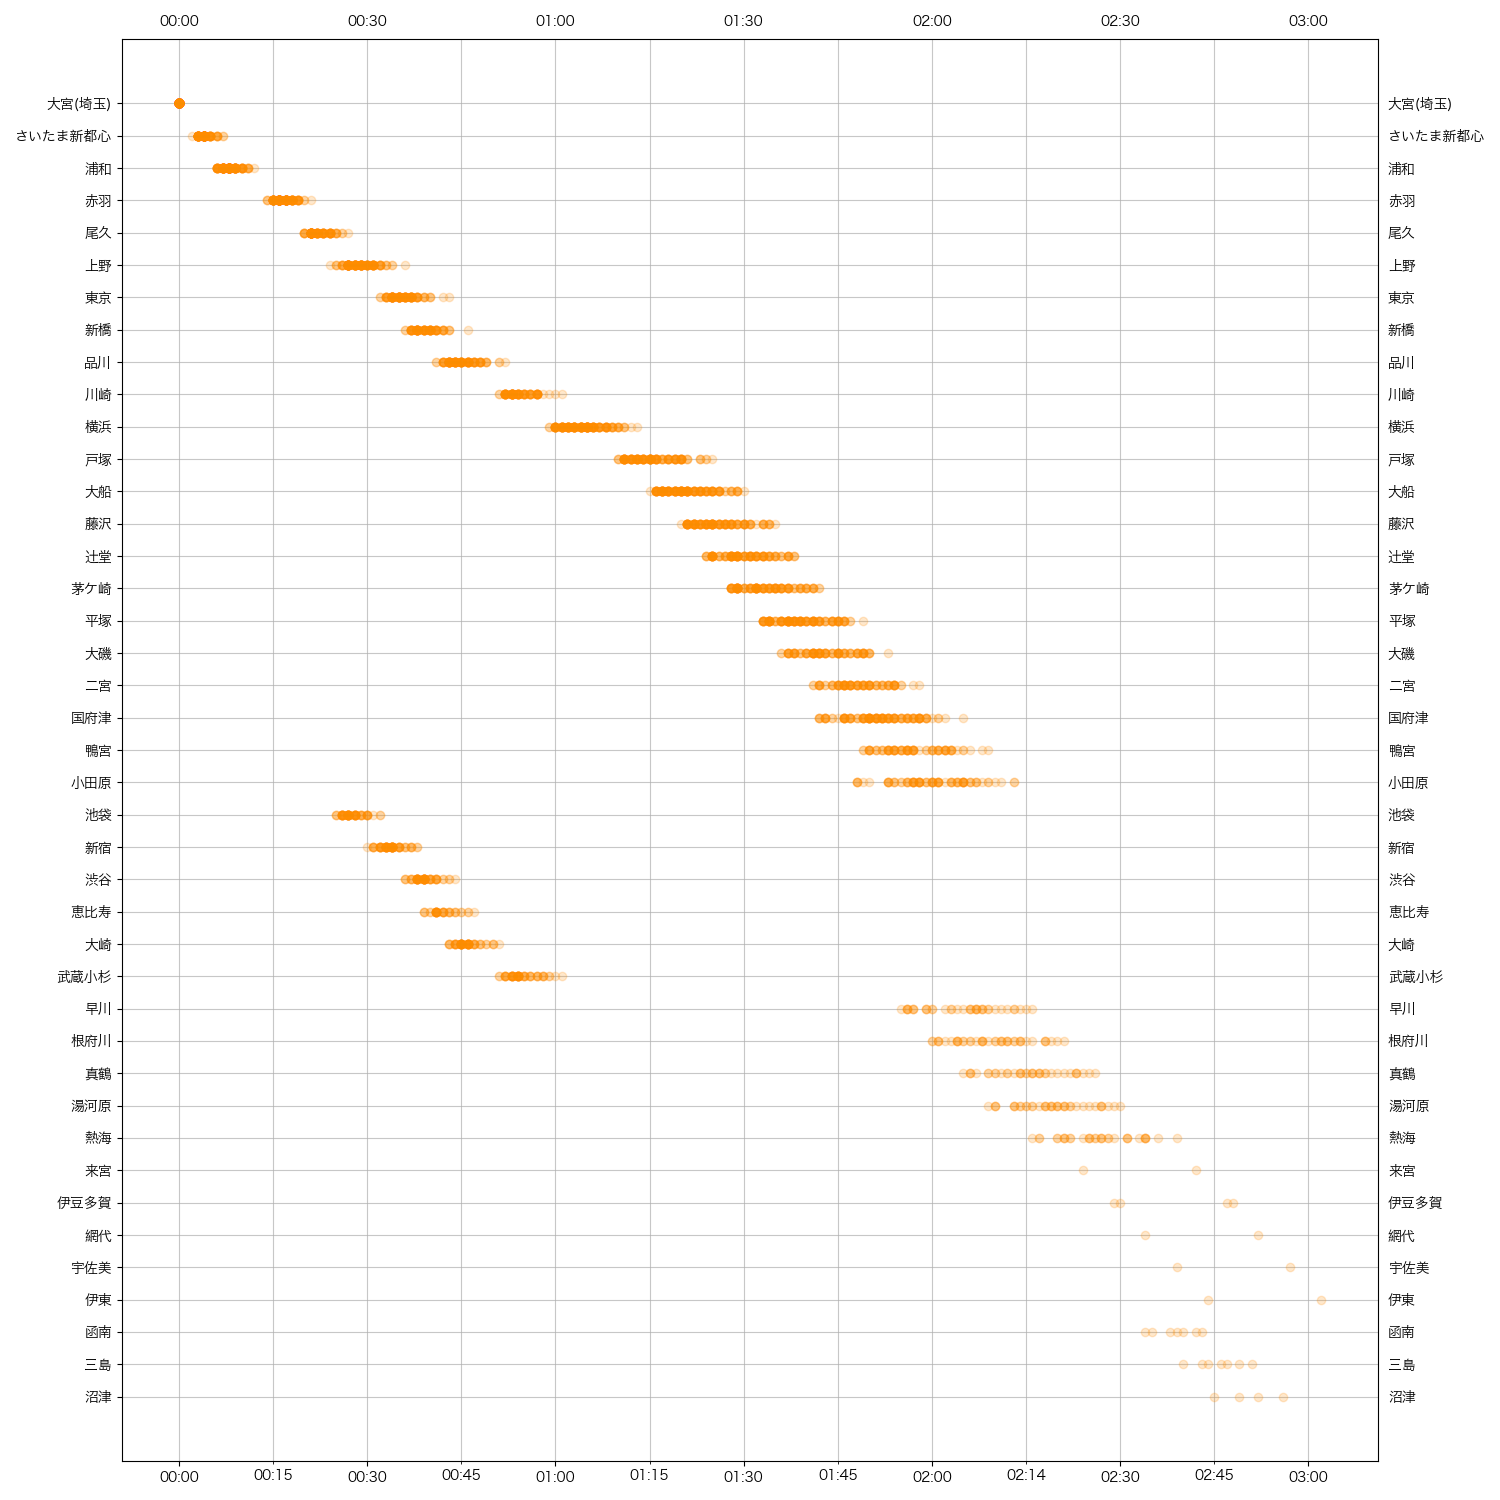
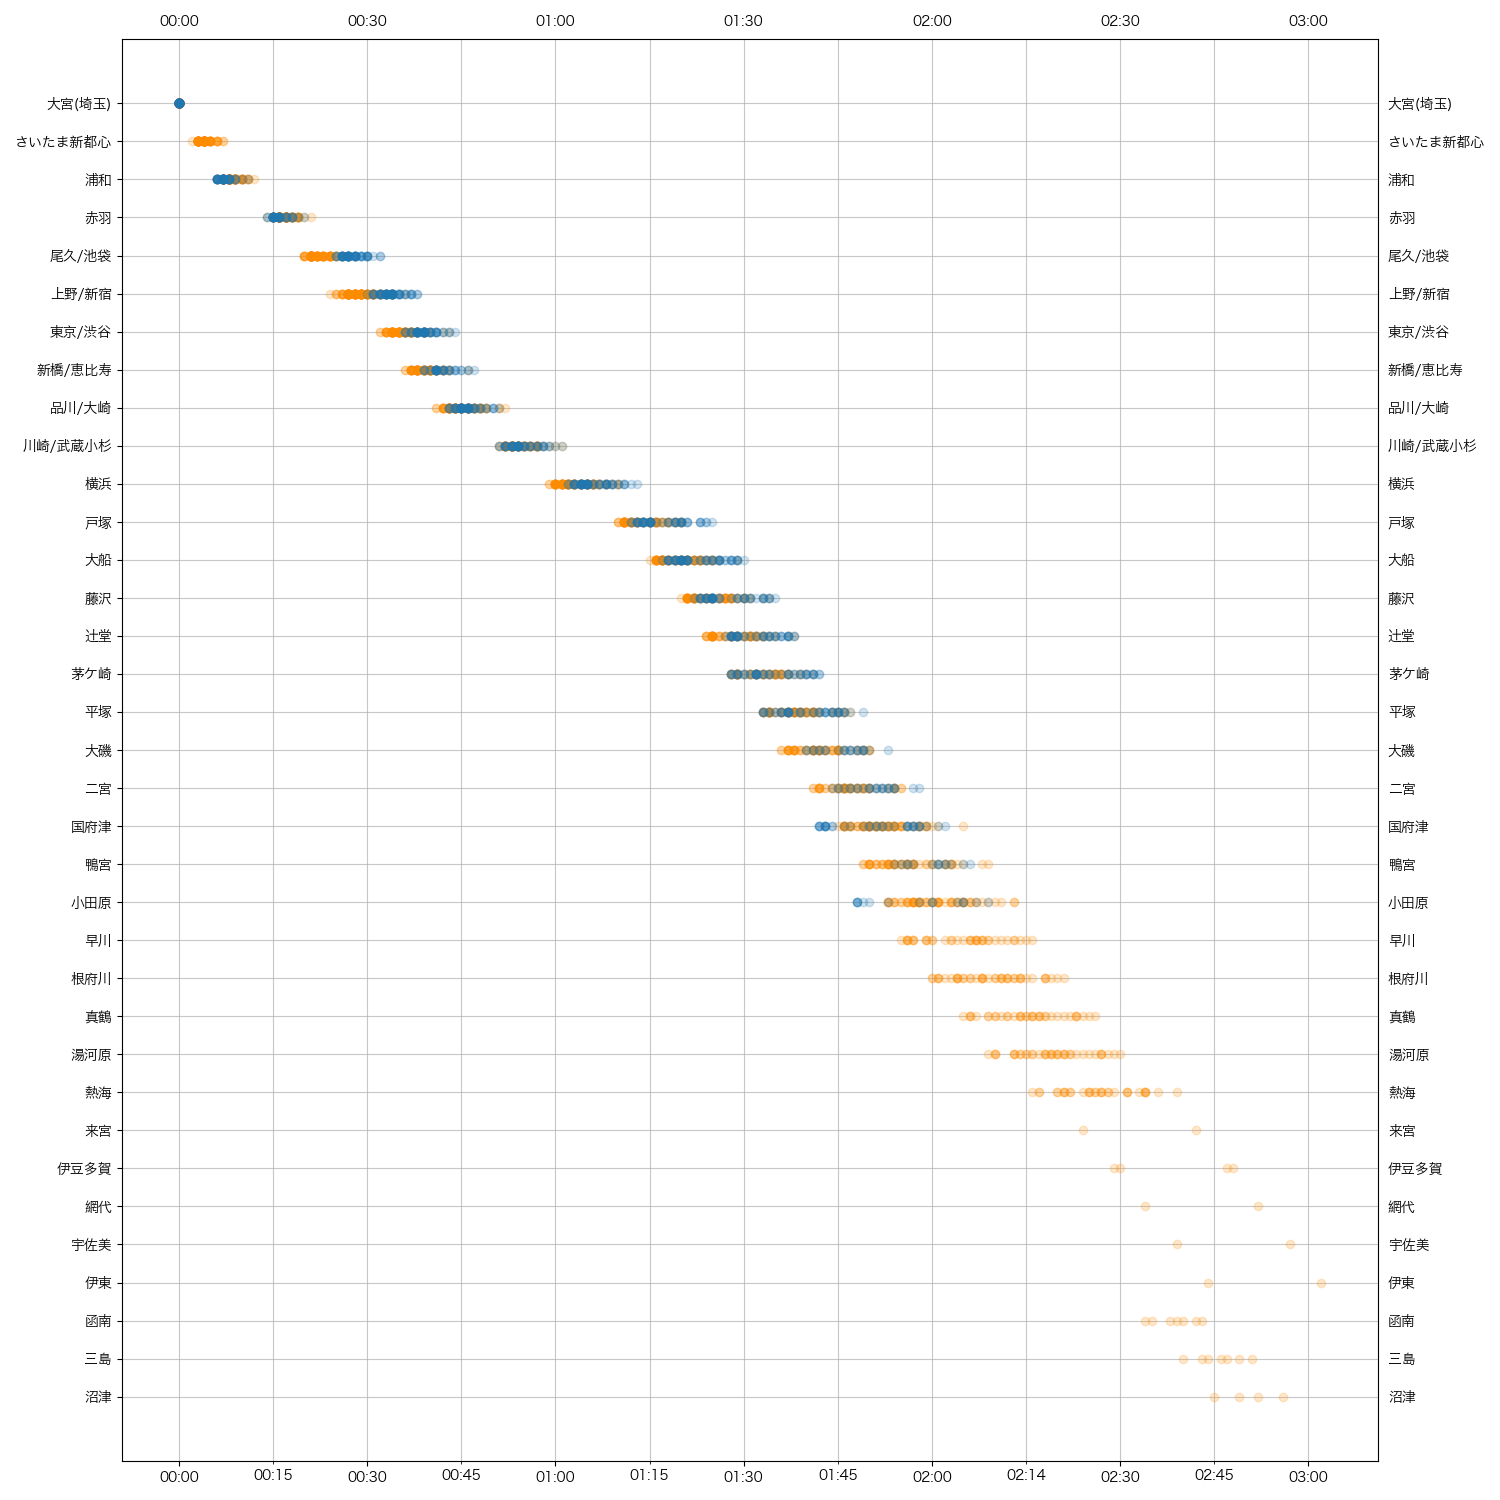
Update other takasaki plots

diff --git a/main.py b/main.py
@@ -105,14 +105,18 @@ def main(line: Line, plotter: Plotter):
     combined.update(branched)
 
     def g(df, combined):
+        # FIXME: there's a setting with copy warning even though i always used .loc
         import numpy as np
-        df['Station_sequence'] = np.nan
+        df.loc[:, 'Station_sequence'] = np.nan
         def f(x):
             for idx, row in x.iterrows():
                 station = row.Station
                 seq = combined[station]
                 df.loc[idx, 'Station_sequence'] = seq
         df.groupby('Train').apply(f)
+
+    g(df_for_main, combined)
+    g(df_for_branch, combined)
 
     plt_func = plotter.value[0]
     plt_func(
@@ -125,9 +129,6 @@ def main(line: Line, plotter: Plotter):
         return
     df_for_main = prepare_plot.prepare_delta(df_for_main)
     df_for_branch = prepare_plot.prepare_delta(df_for_branch)
-
-    g(df_for_main, combined)
-    g(df_for_branch, combined)
 
     plt_func(
         df_for_main, df_for_branch,
